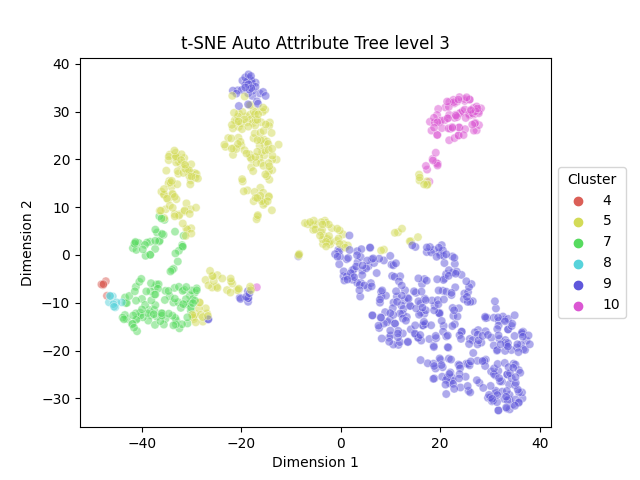
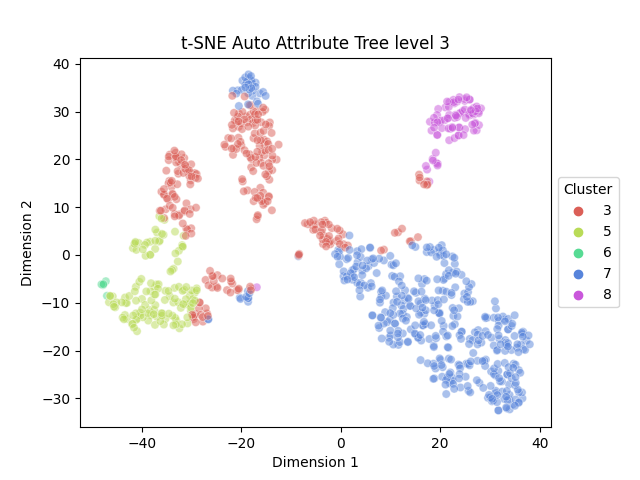
Pure Python implementation

diff --git a/model/spectral.py b/model/spectral.py
@@ -245,15 +245,16 @@ def spectral_clustering_mod(affinity, *, n_clusters=8, n_components=None,
         print(f'Computing label assignment using {assign_labels}')
 
     if assign_labels == 'kmedoids':
-        _, labels, _ = k_means(maps, n_clusters, random_state=random_state,
-                               n_init=n_init, verbose=verbose)
+        cluster_centers, labels, _ = k_medoids(maps, n_clusters, random_state=random_state,
+                                               n_init=n_init, verbose=verbose)
     elif assign_labels == 'kmeans':
-        _, labels, _ = k_means(maps, n_clusters, random_state=random_state,
-                               n_init=n_init, verbose=verbose)
+        cluster_centers, labels, _ = k_means(maps, n_clusters, random_state=random_state,
+                                             n_init=n_init, verbose=verbose)
     else:
-        labels = discretize(maps, random_state=random_state)
+        cluster_centers, labels = None, discretize(
+            maps, random_state=random_state)
 
-    return labels
+    return labels, maps, cluster_centers
 
 
 class SpectralClustering(ClusterMixin, BaseEstimator):
@@ -466,15 +467,17 @@ class SpectralClustering(ClusterMixin, BaseEstimator):
                                                      **params)
 
         random_state = check_random_state(self.random_state)
-        self.labels_ = spectral_clustering_mod(self.affinity_matrix_,
-                                               n_clusters=self.n_clusters,
-                                               n_components=self.n_components,
-                                               eigen_solver=self.eigen_solver,
-                                               random_state=random_state,
-                                               n_init=self.n_init,
-                                               eigen_tol=self.eigen_tol,
-                                               assign_labels=self.assign_labels,
-                                               verbose=self.verbose)
+        self.labels_, \
+            self.maps_, \
+            self.cluster_centers_ = spectral_clustering_mod(self.affinity_matrix_,
+                                                            n_clusters=self.n_clusters,
+                                                            n_components=self.n_components,
+                                                            eigen_solver=self.eigen_solver,
+                                                            random_state=random_state,
+                                                            n_init=self.n_init,
+                                                            eigen_tol=self.eigen_tol,
+                                                            assign_labels=self.assign_labels,
+                                                            verbose=self.verbose)
         return self
 
     def fit_predict(self, X, y=None):
@@ -574,6 +577,7 @@ def k_medoids(X, n_clusters, *, init='k-medoids++', max_iter=300,
         n_clusters=n_clusters, init=init, max_iter=max_iter,
         random_state=random_state, method=algorithm
     ).fit(X)
+
     if return_n_iter:
         return est.cluster_centers_, est.labels_, est.inertia_, est.n_iter_
     else:

diff --git a/model/auto_attribute_tree.py b/model/auto_attribute_tree.py
@@ -2,28 +2,27 @@
 
 import numpy as np
 import pandas as pd
-import rpy2.robjects as robjects
 from collections import defaultdict
 from sklearn import preprocessing
-from rpy2.robjects import pandas2ri
-from rpy2.robjects.packages import importr
-
-pandas2ri.activate()
-
-fpc = importr('fpc')
+from .pamk import pamk
 
 
-def level_pamk(data, max_k=10, offset=0, alpha=1e-3, seed=robjects.NULL):
+def level_pamk(data, max_k=10, offset=0, alpha=1e-3, method='pam', random_state=None):
     id_col = data.iloc[:, 0]
-    X = data.iloc[:, 1:]
+    X = data.iloc[:, 1:].values
     max_k = min(len(data)-1, max_k)
-    krange = robjects.IntVector(range(1, max_k+1))
-    pam_res = fpc.pamk(X, krange=krange, alpha=alpha, seed=seed)
-    medoids = id_col.iloc[pam_res.rx2('pamobject').rx2('id.med')-1]
-    medoids = pd.DataFrame(
-        {'cluster': range(offset+1, offset+1+len(medoids)), 'id': medoids})
-    clusters = pd.DataFrame({'id': id_col, 'cluster': pam_res.rx2(
-        'pamobject').rx2('clustering') + offset})
+    pam_res = pamk(X, krange=np.arange(1, max_k+1), method=method, n_components=10,
+                   alpha=alpha, random_state=random_state)
+
+    if pam_res[1] != 1:
+        medoids = id_col.iloc[pam_res[0].medoid_indices_]
+        medoids = pd.DataFrame(
+            {'cluster': np.arange(offset + 1, offset + 1 + pam_res[1]), 'id': medoids})
+        clusters = pd.DataFrame(
+            {'id': id_col, 'cluster': pam_res[0].labels_ + offset + 1})
+    else:
+        medoids = pd.DataFrame()
+        clusters = pd.DataFrame()
 
     return clusters, medoids
 
@@ -49,7 +48,7 @@ class Node():
 
 
 class AutoAttributeTree():
-    def __init__(self, max_k=10):
+    def __init__(self, max_k=10, method='spectral_pam', random_state=None):
         self.nodes = []
         self.incomplete_nodes = [0]
         self.medoids = pd.DataFrame()
@@ -58,6 +57,8 @@ class AutoAttributeTree():
         self.max_k = max_k
         self.leaf_nodes_idx = []
         self.standard_scaler = preprocessing.StandardScaler()
+        self.method = method
+        self.random_state = random_state
 
     def fit(self, data):
         scaled_data = data.copy()
@@ -75,7 +76,8 @@ class AutoAttributeTree():
                 level = self.nodes2levels[current_node_idx]
             if len(data_node) > 2:
                 clustered_data, medoids = level_pamk(
-                    data_node, max_k=self.max_k, offset=len(self.nodes)-1)
+                    data_node, max_k=self.max_k, offset=len(self.nodes)-1,
+                    method=self.method, random_state=self.random_state)
             else:
                 print(
                     f'Node {current_node} did not divided because of too few data')

diff --git a/model/pamk.py b/model/pamk.py
@@ -1,6 +1,9 @@
 # -*- coding: utf-8 -*-
 import numpy as np
 from scipy.stats import norm
+from sklearn_extra.cluster import KMedoids
+from sklearn.metrics import silhouette_score
+from .spectral import SpectralClustering
 
 
 def dudahart2(X, clustering, alpha=0.001):
@@ -29,13 +32,13 @@ def dudahart2(X, clustering, alpha=0.001):
 
     for clus, cln in zip(values, counts):
         clx = X[clustering == clus, :]
-        cclx < - np.cov(clx)
+        cclx = np.cov(clx.T)
 
         if cln < 2:
             cclx = 0
         W += (cln - 1) * cclx
 
-    W1 = (n-1) * np.cov(X)
+    W1 = (n-1) * np.cov(X.T)
     dh = np.sum(np.diag(W))/np.sum(np.diag(W1))
     z = norm.ppf(1 - alpha)
     compare = 1 - 2/(np.pi * p) - z*np.sqrt(2 * (1 - 8/(np.pi**2 * p)) / (n*p))
@@ -47,3 +50,38 @@ def dudahart2(X, clustering, alpha=0.001):
            'cluster1': cluster1, 'alpha': alpha, 'z': z}
 
     return out
+
+
+def pamk(X, krange=np.arange(1, 11), method='pam', n_components=10,
+         alpha=0.001, random_state=None):
+
+    cluster1 = 1 in krange
+    avg_sw = np. zeros(len(krange))
+    pams = {1: None}
+    for i, k in enumerate(krange):
+        if k != 1:
+            if method == 'pam':
+                clust_method = KMedoids(n_clusters=k, init='k-medoids++', max_iter=300,
+                                        random_state=None, method='pam')
+                clust_method.maps_ = X
+            elif method == 'spectral_pam':
+                clust_method = SpectralClustering(n_clusters=k, n_components=n_components,
+                                                  random_state=random_state,
+                                                  assign_labels='kmedoids')
+            else:
+                raise ValueError('Method not implemented')
+
+            pams[k] = clust_method.fit(X)
+            avg_sw[i] = silhouette_score(
+                clust_method.maps_, clust_method.labels_)
+
+    k_best = krange[np.argmax(avg_sw)]
+    if cluster1:
+        cxx = dudahart2(pams[2].maps_, pams[2].labels_, alpha=alpha)
+        avg_sw[0] = cxx['p_value']
+        cluster1 = cxx['cluster1']
+
+    if cluster1:
+        k_best = 1
+
+    return pams[k_best], k_best, avg_sw

diff --git a/main.py b/main.py
@@ -11,18 +11,20 @@ from sklearn.manifold import TSNE
 from model import AutoAttributeTree
 
 
-def main():
+def main(max_k=10, method='spectral_pam', random_state=None):
     df = pd.read_excel(os.path.join('data', 'data.xlsx'))
     data = df.iloc[:, np.r_[1, 4:10]]
 
     standard_scaler = preprocessing.StandardScaler()
     X = standard_scaler.fit_transform(data.iloc[:, 1:].values)
 
-    aat = AutoAttributeTree()
+    aat = AutoAttributeTree(max_k=max_k, method=method,
+                            random_state=random_state)
     aat.fit(data)
 
     # TSNE
-    tsne = TSNE(n_components=2, verbose=0, perplexity=30, n_iter=1000)
+    tsne = TSNE(n_components=2, verbose=0, perplexity=30,
+                n_iter=1000, random_state=random_state)
     data_embedded_tsne = tsne.fit_transform(X)
     # Niveles complejidad
     niveles = df.iloc[:, 3]
@@ -68,6 +70,4 @@ def main():
 
 if __name__ == '__main__':
     seed = 123
-    random.seed(seed)
-    np.random.seed(seed)
-    main()
+    main(method='pam', random_state=seed)

diff --git a/test_pamk.py b/test_pamk.py
@@ -1,0 +1,16 @@
+import os
+import random
+import numpy as np
+import pandas as pd
+from sklearn import preprocessing
+from model import pamk
+
+df = pd.read_excel(os.path.join('data', 'data.xlsx'))
+data = df.iloc[:, np.r_[1, 4:10]]
+
+standard_scaler = preprocessing.StandardScaler()
+X = standard_scaler.fit_transform(data.iloc[:, 1:].values)
+
+out = pamk(X, method='spectral_pam')
+
+print('test end')

diff --git a/model/__init__.py b/model/__init__.py
@@ -9,3 +9,4 @@
 Auto Attribute Tree model
 """
 from .auto_attribute_tree import AutoAttributeTree
+from .pamk import pamk
